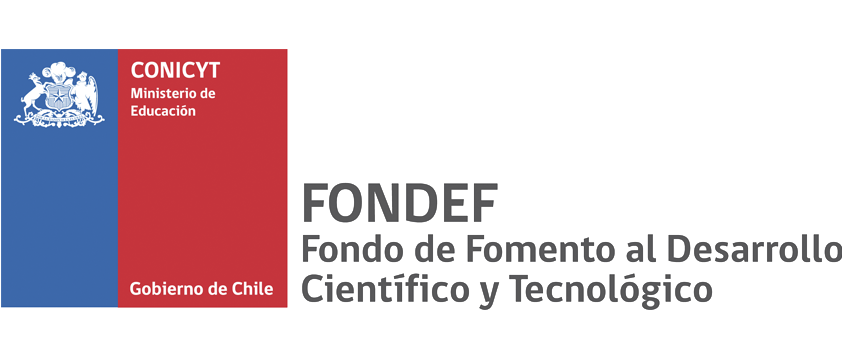
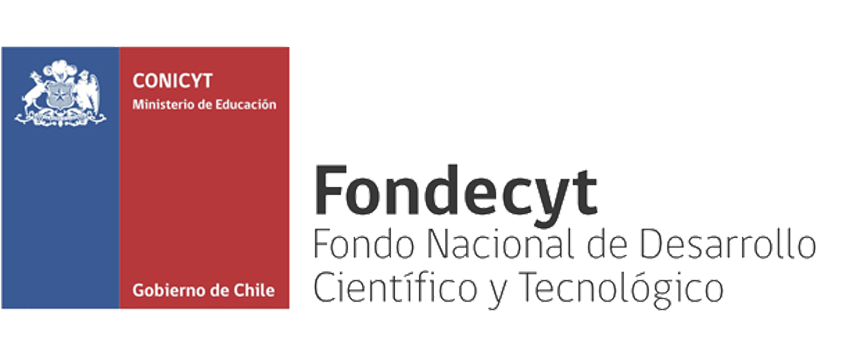
cambios finales

Changed region(s): [[0.0, 0.1226, 1.0, 0.8886], [0.0, 0.8273, 0.0309, 0.8579]]

diff --git a/productos.html b/productos.html
@@ -301,6 +301,18 @@
 			      
 			      
 			    </tr>
+
+			    <tr>
+			      <th scope="row">5</th>
+			      <td>
+				      <figure>
+				      	<img src="img/dt8.png">
+				      </figure>
+				  </td>
+			      <td>Three sealed SCD on a "W"</td>
+			      
+			      
+			    </tr>
 			    
 			    
 			    
@@ -498,6 +510,8 @@
 			      
 			    </tr>
 
+			    
+
 			   
 
 			   
@@ -569,81 +583,81 @@
 
 			<div class="table-responsive">
 				<table class="table ">
-			  <thead class="thead-inverse">
-			    <tr>
-			      <th>#</th>
-			      <th>Modelo</th>
-			      <th>Tamaño (MM)</th>
-			      <th>Uso</th>
-			      
-			    </tr>
-			  </thead>
-			  <tbody>
-			    <tr>
-			      <th scope="row">1</th>
-			      <td>
-				      ZC021
-				  </td>
-			      <td>192x152x11</td>
-			      <td>FENWAL 4R9953, CRYOMACS 200-074-401, ORIGEN CS250(250ML) & CHARTERMED CF-250(250ML)</td>
-			      
-			    </tr>
-			    <tr>
-			      <th scope="row">2</th>
-			      <td>
-				      ZC020
-				  </td>
-			      <td>101x91x11</td>
-			      <td>MEDSEP 791 OS/U, ORIGEN CS25(25ML)</td>
-			      
-			    </tr>
-			    
-			    
-			    
-			  </tbody>
-				</table>
-			</div>
+				  <thead class="thead-inverse">
+				    <tr>
+				      <th>#</th>
+				      <th>Modelo</th>
+				      <th>Tamaño (MM)</th>
+				      <th>Uso</th>
+				      
+				    </tr>
+				  </thead>
+				  <tbody>
+				    <tr>
+				      <th scope="row">1</th>
+				      <td>
+					      ZC021
+					  </td>
+				      <td>192x152x11</td>
+				      <td>FENWAL 4R9953, CRYOMACS 200-074-401, ORIGEN CS250(250ML) & CHARTERMED CF-250(250ML)</td>
+				      
+				    </tr>
+				    <tr>
+				      <th scope="row">2</th>
+				      <td>
+					      ZC020
+					  </td>
+				      <td>101x91x11</td>
+				      <td>MEDSEP 791 OS/U, ORIGEN CS25(25ML)</td>
+				      
+				    </tr>
+				    
+				    
+				    
+				  </tbody>
+					</table>
+				</div>
 
-			<div class="prodimg">
-				<img src="img/rack1.png" alt="producto">
-				<img src="img/rack2.png" alt="producto">
-				<img src="img/rack3.png" alt="producto">
-			</div>
-			
-			<div class="table-responsive">
-				<table class="table ">
-			  <thead class="thead-inverse">
-			    <tr>
-			      <th>#</th>
-			      <th>Modelo</th>
-			      <th>Tamaño (MM)</th>
-			      <th>Uso</th>
-			      
-			    </tr>
-			  </thead>
-			  <tbody>
-			    <tr>
-			      <th scope="row">1</th>
-			      <td>
-				      ZC021
-				  </td>
-			      <td>192x152x11</td>
-			      <td>FENWAL 4R9953, CRYOMACS 200-074-401, ORIGEN CS250(250ML) & CHARTERMED CF-250(250ML)</td>
-			      
-			    </tr>
-			    <tr>
-			      <th scope="row">2</th>
-			      <td>
-				      ZC020
-				  </td>
-			      <td>101x91x11</td>
-			      <td>MEDSEP 791 OS/U, ORIGEN CS25(25ML)</td>
-			      
-			    </tr>
-			    
-			    
-			    
-			  </tbody>
+				<div class="prodimg">
+					<img src="img/rack1.png" alt="producto">
+					<img src="img/rack2.png" alt="producto">
+					<img src="img/rack3.png" alt="producto">
+				</div>
+				
+				<div class="table-responsive">
+					<table class="table ">
+				  <thead class="thead-inverse">
+				    <tr>
+				      <th>#</th>
+				      <th>Modelo</th>
+				      <th>Tamaño (MM)</th>
+				      <th>Uso</th>
+				      
+				    </tr>
+				  </thead>
+				  <tbody>
+				    <tr>
+				      <th scope="row">1</th>
+				      <td>
+					      ZF4-ZC021
+					  </td>
+				      <td>162x653x14</td>
+				      <td>ZC021</td>
+				      
+				    </tr>
+				    <tr>
+				      <th scope="row">2</th>
+				      <td>
+					      ZF6-ZC020
+					  </td>
+				      <td>76x594x14</td>
+				      <td>ZC020</td>
+				      
+				    </tr>
+				    
+				    
+				    
+				  </tbody>
 				</table>
 			</div>
 

diff --git a/clientes.html b/clientes.html
@@ -75,51 +75,69 @@
     <div class="row">
 
       <div class="col-md-4 col-xs-6 docclientes">
-        <figure>
-          <img src="img/clc.png">
-        </figure>
+        <a href="http://www.clc.cl/">
+          <figure>
+            <img src="img/clc.png">
+          </figure>
+        </a>
       </div>
       <div class="col-md-4 col-xs-6 docclientes">
-        <figure>
-          <img src="img/cordonvida.png">
-        </figure>
+        <a href="http://www.cordonvida.cl/">
+          <figure>
+            <img src="img/cordonvida.png">
+          </figure>
+        </a>
       </div>
       <div class="col-md-4 col-xs-6 docclientes">
-        <figure>
-          <img src="img/autonoma.png">
-        </figure>
-      </div>
-
-      <div class="col-md-4 col-xs-6 docclientes">
-        <figure>
-          <img src="img/kadewash.png">
-        </figure>
-      </div>
-      <div class="col-md-4 col-xs-6 docclientes">
-        <figure>
-          <img src="img/cliale.png">
-        </figure>
-      </div>
-      <div class="col-md-4 col-xs-6 docclientes">
-        <figure>
-          <img src="img/andresbello.png">
-        </figure>
+        <a href="http://www.uautonoma.cl/">
+          <figure>
+            <img src="img/autonoma.png">
+          </figure>
+        </a>
       </div>
 
       <div class="col-md-4 col-xs-6 docclientes">
-        <figure>
-          <img src="img/cluch.png">
-        </figure>
+        <a href="http://www.kadewash.com/">
+          <figure>
+            <img src="img/kadewash.png">
+          </figure>
+        </a>
       </div>
       <div class="col-md-4 col-xs-6 docclientes">
-        <figure>
-          <img src="img/regen.png">
-        </figure>
+        <a href="https://portal.alemana.cl/wps/wcm/connect/internet/home">
+          <figure>
+            <img src="img/cliale.png">
+          </figure>
+        </a>
       </div>
       <div class="col-md-4 col-xs-6 docclientes">
-        <figure>
-          <img src="img/fondef.png">
-        </figure>
+        <a href="http://www.unab.cl/">
+          <figure>
+            <img src="img/andresbello.png">
+          </figure>
+        </a>
+      </div>
+
+      <div class="col-md-4 col-xs-6 docclientes">
+        <a href="https://www.redclinica.cl/">
+          <figure>
+            <img src="img/cluch.png">
+          </figure>
+        </a>
+      </div>
+      <div class="col-md-4 col-xs-6 docclientes">
+        <a href="http://regencell.cl/">
+          <figure>
+            <img src="img/regen.png">
+          </figure>
+        </a>
+      </div>
+      <div class="col-md-4 col-xs-6 docclientes">
+        <a href="http://www.conicyt.cl/fondecyt/">
+          <figure>
+            <img src="img/fondef.png">
+          </figure>
+        </a>
       </div>
 
 

diff --git a/css/deltagstyle.css b/css/deltagstyle.css
@@ -203,6 +203,7 @@ div#myCarousel div.carousel-inner div.item img {
 }
 
 .container-box-2 .clients {
+  text-align: center;
   padding: 10px;
   background-color: #f4f4f4;
   background: -webkit-linear-gradient(#F9FDFD, #EEF1F1);

diff --git a/deltaweb.html b/deltaweb.html
@@ -182,7 +182,7 @@
 
             <div class="col-xs-12 col-md-6">
               <br>
-              <h3>News</h3>
+              <h3></h3>
 
               <div class="news">
                 <!--<div class="article">

diff --git a/css/deltagstyle.scss b/css/deltagstyle.scss
@@ -261,7 +261,7 @@ div#myCarousel{
 	
 	.clients{
 		
-		//text-align: center;
+		text-align: center;
 		//padding:20px;
 		padding: 10px;
 		background-color: #f4f4f4;
